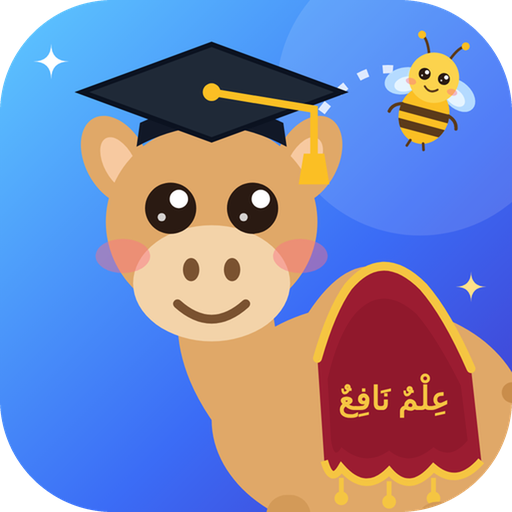
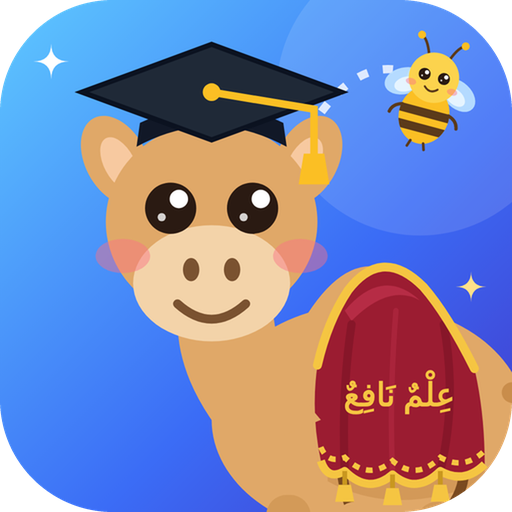
Сабур: попона со складками, бликом, тенью, подпругой и кистями; яркие карточки баллов
Claude-Session: https://claude.ai/code/session_01Cm4BGiETkxANavc8i9VW5H

Changed region(s): [[0.5938, 0.5, 0.9688, 1.0], [0.8438, 0.5938, 0.875, 0.625]]

diff --git a/index.html b/index.html
@@ -438,6 +438,16 @@ html[data-theme] .abopts .lopt.ar{font-size:40px;text-align:center;line-height:1
 .abgrid{display:grid;grid-template-columns:repeat(3,1fr);gap:10px;margin:10px 0}.abc{display:flex;flex-direction:column;align-items:center;background:var(--card2);border-radius:16px;padding:8px}.abc small{color:var(--mut)}
 .abrow{display:flex;flex-wrap:wrap;gap:8px;justify-content:center;font-size:34px;margin:8px 0}.abg{font-size:38px;background:var(--qbg);border-radius:12px;padding:0 10px}
 button.sj{border:0;font:inherit;font-weight:800;cursor:pointer}.sj.cur{box-shadow:0 0 0 2px var(--q) inset}
+
+html[data-theme] .st{border-radius:18px;padding:12px 6px;box-shadow:0 4px 0 rgba(0,0,0,.06);border:2px solid transparent}
+html[data-theme] .st b{font-size:30px;line-height:1.1}
+html[data-theme] .st span{color:var(--tx);font-size:13px;font-weight:800}
+.st:has(b[style*="var(--n)"]){background:var(--nbg);border-color:color-mix(in srgb,var(--n) 30%,transparent)!important}
+.st:has(b[style*="var(--q)"]){background:var(--qbg);border-color:color-mix(in srgb,var(--q) 30%,transparent)!important}
+.st:has(b[style*="var(--x)"]){background:var(--xbg);border-color:color-mix(in srgb,var(--x) 30%,transparent)!important}
+.st:has(b[style*="var(--f)"]){background:var(--fbg);border-color:color-mix(in srgb,var(--f) 30%,transparent)!important}
+.st:has(b[style*="var(--gold)"]){background:linear-gradient(135deg,#FFB547,#FF7A45);box-shadow:0 4px 0 #D9622E!important}
+.st:has(b[style*="var(--gold)"]) b,.st:has(b[style*="var(--gold)"]) span{color:#fff!important}
 </style>
 <script>(function(){var t="light";try{t=JSON.parse(localStorage.getItem("theme"))||"light"}catch(e){}document.documentElement.setAttribute("data-theme",t==="dark"?"dark":"light")})()</script>
 </head>
@@ -476,7 +486,7 @@ var OLD_EMOJI={"🦁":"b-lion","🐯":"b-tiger","🐺":"b-wolf","🐻":"b-bear",
   d.innerHTML='<svg xmlns="http://www.w3.org/2000/svg" width="0" height="0">'+AVS.map(function(a){return '<symbol id="av-'+a[0]+'" viewBox="0 0 100 100">'+a[3]+'</symbol>'}).join("")+'</svg>';
   document.body.appendChild(d)})();
 /* Персонажи платформы: верблюжонок Сабур и его помощница пчёлка Асаль */
-var MASC={"sab": "<ellipse cx=\"118\" cy=\"128\" rx=\"46\" ry=\"34\" fill=\"#e0a868\"/><path d=\"M96 104Q118 62 142 104Z\" fill=\"#e0a868\"/><path d=\"M103 110Q107 96 112 89Q122 77 134 89Q141 97 148 113L151 140Q144 148 137 142Q130 150 124 143Q117 150 110 142Q107 147 105 140Z\" fill=\"#9B1C31\"/><path d=\"M106 116Q109 103 114 97Q122 88 132 97Q138 104 145 118L147 134Q142 140 137 136Q130 142 124 137Q117 142 110 136Q108 140 107 134Z\" fill=\"#7A1225\" opacity=\".35\"/><path d=\"M103 110Q107 96 112 89Q122 77 134 89Q141 97 148 113\" stroke=\"#F5C542\" stroke-width=\"2.6\" fill=\"none\" stroke-linecap=\"round\"/><path d=\"M151 140Q144 148 137 142Q130 150 124 143Q117 150 110 142Q107 147 105 140\" stroke=\"#F5C542\" stroke-width=\"2.2\" fill=\"none\"/><path d=\"M110 145v5\" stroke=\"#F5C542\" stroke-width=\"1.4\"/><circle cx=\"110\" cy=\"151\" r=\"2\" fill=\"#F5C542\"/><path d=\"M124 146v5\" stroke=\"#F5C542\" stroke-width=\"1.4\"/><circle cx=\"124\" cy=\"152\" r=\"2\" fill=\"#F5C542\"/><path d=\"M137 145v5\" stroke=\"#F5C542\" stroke-width=\"1.4\"/><circle cx=\"137\" cy=\"151\" r=\"2\" fill=\"#F5C542\"/><text x=\"125.5\" y=\"125\" font-size=\"9.5\" text-anchor=\"middle\" fill=\"#F5C542\" style=\"font-family:Ruqaa,'Aref Ruqaa',serif;font-weight:700\">عِلْمٌ نَافِعٌ<\/text><rect x=\"88\" y=\"150\" width=\"13\" height=\"36\" rx=\"6\" fill=\"#d39a58\"/><rect x=\"108\" y=\"152\" width=\"13\" height=\"34\" rx=\"6\" fill=\"#e0a868\"/><rect x=\"132\" y=\"152\" width=\"13\" height=\"34\" rx=\"6\" fill=\"#d39a58\"/><rect x=\"150\" y=\"148\" width=\"13\" height=\"38\" rx=\"6\" fill=\"#e0a868\"/><path d=\"M160 120q16 4 14 22\" stroke=\"#c98d4b\" stroke-width=\"6\" fill=\"none\" stroke-linecap=\"round\"/><path d=\"M64 86Q56 112 80 138L104 128Q88 110 90 86Z\" fill=\"#e0a868\"/><ellipse cx=\"44\" cy=\"52\" rx=\"9\" ry=\"14\" transform=\"rotate(-28 44 52)\" fill=\"#e0a868\"/><ellipse cx=\"45\" cy=\"53\" rx=\"4.5\" ry=\"8.5\" transform=\"rotate(-28 45 53)\" fill=\"#f7c9a0\"/><ellipse cx=\"100\" cy=\"52\" rx=\"9\" ry=\"14\" transform=\"rotate(28 100 52)\" fill=\"#e0a868\"/><ellipse cx=\"99\" cy=\"53\" rx=\"4.5\" ry=\"8.5\" transform=\"rotate(28 99 53)\" fill=\"#f7c9a0\"/><ellipse cx=\"72\" cy=\"70\" rx=\"31\" ry=\"29\" fill=\"#e0a868\"/><ellipse cx=\"72\" cy=\"88\" rx=\"23\" ry=\"17\" fill=\"#f3d3a9\"/><circle cx=\"60\" cy=\"66\" r=\"7.5\" fill=\"#2a1a12\"/><circle cx=\"62.4\" cy=\"63.3\" r=\"2.6999999999999997\" fill=\"#fff\"/><circle cx=\"57.375\" cy=\"68.625\" r=\"1.2\" fill=\"#fff\" opacity=\".8\"/><circle cx=\"84\" cy=\"66\" r=\"7.5\" fill=\"#2a1a12\"/><circle cx=\"86.4\" cy=\"63.3\" r=\"2.6999999999999997\" fill=\"#fff\"/><circle cx=\"81.375\" cy=\"68.625\" r=\"1.2\" fill=\"#fff\" opacity=\".8\"/><ellipse cx=\"46\" cy=\"80\" rx=\"8\" ry=\"5\" fill=\"#fb7185\" opacity=\".45\"/><ellipse cx=\"98\" cy=\"80\" rx=\"8\" ry=\"5\" fill=\"#fb7185\" opacity=\".45\"/><ellipse cx=\"66\" cy=\"84\" rx=\"2.4\" ry=\"3.4\" fill=\"#7a5230\"/><ellipse cx=\"78\" cy=\"84\" rx=\"2.4\" ry=\"3.4\" fill=\"#7a5230\"/><path d=\"M62 94q10 9 20 0\" stroke=\"#7a5230\" stroke-width=\"2.6\" fill=\"none\" stroke-linecap=\"round\"/><path d=\"M50 48Q72 36 94 48L93 41Q72 31 51 41Z\" fill=\"#111827\"/><path d=\"M72 18L110 32L72 46L34 32Z\" fill=\"#1f2937\"/><path d=\"M72 18L110 32L72 46L34 32Z\" fill=\"none\" stroke=\"#0b1220\" stroke-width=\"1.5\"/><circle cx=\"72\" cy=\"32\" r=\"2.6\" fill=\"#fbbf24\"/><path d=\"M72 32L102 37L102 52\" stroke=\"#fbbf24\" stroke-width=\"2.2\" fill=\"none\" stroke-linecap=\"round\"/><path d=\"M99 50h6l1.5 9h-9Z\" fill=\"#fbbf24\"/>", "asl": "<ellipse cx=\"58\" cy=\"96\" rx=\"30\" ry=\"20\" transform=\"rotate(-28 58 96)\" fill=\"#bfe3ff\" opacity=\".9\"/><ellipse cx=\"142\" cy=\"96\" rx=\"30\" ry=\"20\" transform=\"rotate(28 142 96)\" fill=\"#bfe3ff\" opacity=\".9\"/><ellipse cx=\"62\" cy=\"100\" rx=\"18\" ry=\"11\" transform=\"rotate(-28 62 100)\" fill=\"#e6f4ff\"/><ellipse cx=\"138\" cy=\"100\" rx=\"18\" ry=\"11\" transform=\"rotate(28 138 100)\" fill=\"#e6f4ff\"/><defs><clipPath id=\"ms-bb\"><ellipse cx=\"100\" cy=\"138\" rx=\"38\" ry=\"44\"/><\/clipPath><\/defs><ellipse cx=\"100\" cy=\"138\" rx=\"38\" ry=\"44\" fill=\"#fbbf24\"/><g clip-path=\"url(#ms-bb)\"><rect x=\"50\" y=\"128\" width=\"100\" height=\"13\" fill=\"#5b3a1a\"/><rect x=\"50\" y=\"152\" width=\"100\" height=\"13\" fill=\"#5b3a1a\"/><\/g><path d=\"M90 180l-3 9M110 180l3 9\" stroke=\"#5b3a1a\" stroke-width=\"4\" stroke-linecap=\"round\"/><path d=\"M64 130q-14 4 -16 16M136 130q14 4 16 16\" stroke=\"#5b3a1a\" stroke-width=\"5\" fill=\"none\" stroke-linecap=\"round\"/><path d=\"M84 48Q76 26 66 22M116 48Q124 26 134 22\" stroke=\"#5b3a1a\" stroke-width=\"4\" fill=\"none\" stroke-linecap=\"round\"/><circle cx=\"66\" cy=\"22\" r=\"6\" fill=\"#fbbf24\"/><circle cx=\"134\" cy=\"22\" r=\"6\" fill=\"#fbbf24\"/><circle cx=\"100\" cy=\"80\" r=\"38\" fill=\"#fcd34d\"/><circle cx=\"85\" cy=\"78\" r=\"9\" fill=\"#2a1a12\"/><circle cx=\"87.88\" cy=\"74.76\" r=\"3.2399999999999998\" fill=\"#fff\"/><circle cx=\"81.85\" cy=\"81.15\" r=\"1.44\" fill=\"#fff\" opacity=\".8\"/><circle cx=\"115\" cy=\"78\" r=\"9\" fill=\"#2a1a12\"/><circle cx=\"117.88\" cy=\"74.76\" r=\"3.2399999999999998\" fill=\"#fff\"/><circle cx=\"111.85\" cy=\"81.15\" r=\"1.44\" fill=\"#fff\" opacity=\".8\"/><ellipse cx=\"68\" cy=\"94\" rx=\"8\" ry=\"5\" fill=\"#fb7185\" opacity=\".45\"/><ellipse cx=\"132\" cy=\"94\" rx=\"8\" ry=\"5\" fill=\"#fb7185\" opacity=\".45\"/><path d=\"M90 96q10 10 20 0\" stroke=\"#5b3a1a\" stroke-width=\"3\" fill=\"none\" stroke-linecap=\"round\"/>"};
+var MASC={"sab": "<ellipse cx=\"118\" cy=\"128\" rx=\"46\" ry=\"34\" fill=\"#e0a868\"/><path d=\"M96 104Q118 62 142 104Z\" fill=\"#e0a868\"/><path d=\"M106 140Q125 152 152 141L152 146Q126 157 106 146Z\" fill=\"#c98d4b\" opacity=\".55\"/><path d=\"M110 142Q112 158 118 160Q131 162 140 156Q146 150 146 142\" stroke=\"#7a4a1f\" stroke-width=\"3\" fill=\"none\" stroke-linecap=\"round\"/><path d=\"M103 112Q106 99 112 90Q122 77 134 89Q141 97 149 113Q152 126 152 141Q146 147 139 143Q132 150 125 144Q118 150 111 143Q106 146 104 140Q101 126 103 112Z\" fill=\"#9B1C31\"/><path d=\"M111 96Q122 83 133 93Q124 88 113 99Z\" fill=\"#C2334F\" opacity=\".7\"/><path d=\"M113 100Q110 120 111 143\" stroke=\"#6E0F22\" stroke-width=\"2.4\" fill=\"none\" opacity=\".45\" stroke-linecap=\"round\"/><path d=\"M140 100Q144 122 139 143\" stroke=\"#6E0F22\" stroke-width=\"2.4\" fill=\"none\" opacity=\".45\" stroke-linecap=\"round\"/><path d=\"M126 96Q124 121 125 144\" stroke=\"#C2334F\" stroke-width=\"1.6\" fill=\"none\" opacity=\".35\" stroke-linecap=\"round\"/><path d=\"M103 112Q106 99 112 90Q122 77 134 89Q141 97 149 113\" stroke=\"#F5C542\" stroke-width=\"2.6\" fill=\"none\" stroke-linecap=\"round\"/><path d=\"M104 136Q106 141 111 139Q118 146 125 140Q132 146 139 139Q146 143 152 137\" stroke=\"#F5C542\" stroke-width=\"1.6\" fill=\"none\" stroke-dasharray=\"2 2\"/><path d=\"M152 141Q146 147 139 143Q132 150 125 144Q118 150 111 143Q106 146 104 140\" stroke=\"#F5C542\" stroke-width=\"2.4\" fill=\"none\" stroke-linejoin=\"round\"/><path d=\"M111 143v4\" stroke=\"#C9971F\" stroke-width=\"1.4\"/><path d=\"M109.2 147h3.6l1 5h-5.6Z\" fill=\"#F5C542\"/><path d=\"M125 144v4\" stroke=\"#C9971F\" stroke-width=\"1.4\"/><path d=\"M123.2 148h3.6l1 5h-5.6Z\" fill=\"#F5C542\"/><path d=\"M139 143v4\" stroke=\"#C9971F\" stroke-width=\"1.4\"/><path d=\"M137.2 147h3.6l1 5h-5.6Z\" fill=\"#F5C542\"/><text x=\"127\" y=\"124\" font-size=\"9.5\" text-anchor=\"middle\" fill=\"#F5C542\" style=\"font-family:Ruqaa,'Aref Ruqaa',serif;font-weight:700\">عِلْمٌ نَافِعٌ<\/text><rect x=\"88\" y=\"150\" width=\"13\" height=\"36\" rx=\"6\" fill=\"#d39a58\"/><rect x=\"108\" y=\"152\" width=\"13\" height=\"34\" rx=\"6\" fill=\"#e0a868\"/><rect x=\"132\" y=\"152\" width=\"13\" height=\"34\" rx=\"6\" fill=\"#d39a58\"/><rect x=\"150\" y=\"148\" width=\"13\" height=\"38\" rx=\"6\" fill=\"#e0a868\"/><path d=\"M160 120q16 4 14 22\" stroke=\"#c98d4b\" stroke-width=\"6\" fill=\"none\" stroke-linecap=\"round\"/><path d=\"M64 86Q56 112 80 138L104 128Q88 110 90 86Z\" fill=\"#e0a868\"/><ellipse cx=\"44\" cy=\"52\" rx=\"9\" ry=\"14\" transform=\"rotate(-28 44 52)\" fill=\"#e0a868\"/><ellipse cx=\"45\" cy=\"53\" rx=\"4.5\" ry=\"8.5\" transform=\"rotate(-28 45 53)\" fill=\"#f7c9a0\"/><ellipse cx=\"100\" cy=\"52\" rx=\"9\" ry=\"14\" transform=\"rotate(28 100 52)\" fill=\"#e0a868\"/><ellipse cx=\"99\" cy=\"53\" rx=\"4.5\" ry=\"8.5\" transform=\"rotate(28 99 53)\" fill=\"#f7c9a0\"/><ellipse cx=\"72\" cy=\"70\" rx=\"31\" ry=\"29\" fill=\"#e0a868\"/><ellipse cx=\"72\" cy=\"88\" rx=\"23\" ry=\"17\" fill=\"#f3d3a9\"/><circle cx=\"60\" cy=\"66\" r=\"7.5\" fill=\"#2a1a12\"/><circle cx=\"62.4\" cy=\"63.3\" r=\"2.6999999999999997\" fill=\"#fff\"/><circle cx=\"57.375\" cy=\"68.625\" r=\"1.2\" fill=\"#fff\" opacity=\".8\"/><circle cx=\"84\" cy=\"66\" r=\"7.5\" fill=\"#2a1a12\"/><circle cx=\"86.4\" cy=\"63.3\" r=\"2.6999999999999997\" fill=\"#fff\"/><circle cx=\"81.375\" cy=\"68.625\" r=\"1.2\" fill=\"#fff\" opacity=\".8\"/><ellipse cx=\"46\" cy=\"80\" rx=\"8\" ry=\"5\" fill=\"#fb7185\" opacity=\".45\"/><ellipse cx=\"98\" cy=\"80\" rx=\"8\" ry=\"5\" fill=\"#fb7185\" opacity=\".45\"/><ellipse cx=\"66\" cy=\"84\" rx=\"2.4\" ry=\"3.4\" fill=\"#7a5230\"/><ellipse cx=\"78\" cy=\"84\" rx=\"2.4\" ry=\"3.4\" fill=\"#7a5230\"/><path d=\"M62 94q10 9 20 0\" stroke=\"#7a5230\" stroke-width=\"2.6\" fill=\"none\" stroke-linecap=\"round\"/><path d=\"M50 48Q72 36 94 48L93 41Q72 31 51 41Z\" fill=\"#111827\"/><path d=\"M72 18L110 32L72 46L34 32Z\" fill=\"#1f2937\"/><path d=\"M72 18L110 32L72 46L34 32Z\" fill=\"none\" stroke=\"#0b1220\" stroke-width=\"1.5\"/><circle cx=\"72\" cy=\"32\" r=\"2.6\" fill=\"#fbbf24\"/><path d=\"M72 32L102 37L102 52\" stroke=\"#fbbf24\" stroke-width=\"2.2\" fill=\"none\" stroke-linecap=\"round\"/><path d=\"M99 50h6l1.5 9h-9Z\" fill=\"#fbbf24\"/>", "asl": "<ellipse cx=\"58\" cy=\"96\" rx=\"30\" ry=\"20\" transform=\"rotate(-28 58 96)\" fill=\"#bfe3ff\" opacity=\".9\"/><ellipse cx=\"142\" cy=\"96\" rx=\"30\" ry=\"20\" transform=\"rotate(28 142 96)\" fill=\"#bfe3ff\" opacity=\".9\"/><ellipse cx=\"62\" cy=\"100\" rx=\"18\" ry=\"11\" transform=\"rotate(-28 62 100)\" fill=\"#e6f4ff\"/><ellipse cx=\"138\" cy=\"100\" rx=\"18\" ry=\"11\" transform=\"rotate(28 138 100)\" fill=\"#e6f4ff\"/><defs><clipPath id=\"ms-bb\"><ellipse cx=\"100\" cy=\"138\" rx=\"38\" ry=\"44\"/><\/clipPath><\/defs><ellipse cx=\"100\" cy=\"138\" rx=\"38\" ry=\"44\" fill=\"#fbbf24\"/><g clip-path=\"url(#ms-bb)\"><rect x=\"50\" y=\"128\" width=\"100\" height=\"13\" fill=\"#5b3a1a\"/><rect x=\"50\" y=\"152\" width=\"100\" height=\"13\" fill=\"#5b3a1a\"/><\/g><path d=\"M90 180l-3 9M110 180l3 9\" stroke=\"#5b3a1a\" stroke-width=\"4\" stroke-linecap=\"round\"/><path d=\"M64 130q-14 4 -16 16M136 130q14 4 16 16\" stroke=\"#5b3a1a\" stroke-width=\"5\" fill=\"none\" stroke-linecap=\"round\"/><path d=\"M84 48Q76 26 66 22M116 48Q124 26 134 22\" stroke=\"#5b3a1a\" stroke-width=\"4\" fill=\"none\" stroke-linecap=\"round\"/><circle cx=\"66\" cy=\"22\" r=\"6\" fill=\"#fbbf24\"/><circle cx=\"134\" cy=\"22\" r=\"6\" fill=\"#fbbf24\"/><circle cx=\"100\" cy=\"80\" r=\"38\" fill=\"#fcd34d\"/><circle cx=\"85\" cy=\"78\" r=\"9\" fill=\"#2a1a12\"/><circle cx=\"87.88\" cy=\"74.76\" r=\"3.2399999999999998\" fill=\"#fff\"/><circle cx=\"81.85\" cy=\"81.15\" r=\"1.44\" fill=\"#fff\" opacity=\".8\"/><circle cx=\"115\" cy=\"78\" r=\"9\" fill=\"#2a1a12\"/><circle cx=\"117.88\" cy=\"74.76\" r=\"3.2399999999999998\" fill=\"#fff\"/><circle cx=\"111.85\" cy=\"81.15\" r=\"1.44\" fill=\"#fff\" opacity=\".8\"/><ellipse cx=\"68\" cy=\"94\" rx=\"8\" ry=\"5\" fill=\"#fb7185\" opacity=\".45\"/><ellipse cx=\"132\" cy=\"94\" rx=\"8\" ry=\"5\" fill=\"#fb7185\" opacity=\".45\"/><path d=\"M90 96q10 10 20 0\" stroke=\"#5b3a1a\" stroke-width=\"3\" fill=\"none\" stroke-linecap=\"round\"/>"};
 (function(){var d=document.createElement("div");d.setAttribute("aria-hidden","true");d.style.cssText="position:absolute;width:0;height:0;overflow:hidden";
   d.innerHTML='<svg xmlns="http://www.w3.org/2000/svg" width="0" height="0">'+Object.keys(MASC).map(function(k){return '<symbol id="ms-'+k+'" viewBox="0 0 200 200">'+MASC[k]+'</symbol>'}).join("")+'</svg>';document.body.appendChild(d)})();
 function mas(k,w,cls){return '<svg'+(cls?' class="'+cls+'"':"")+' viewBox="0 0 200 200" width="'+w+'" height="'+w+'" aria-hidden="true"><use href="#ms-'+k+'"/></svg>'}
